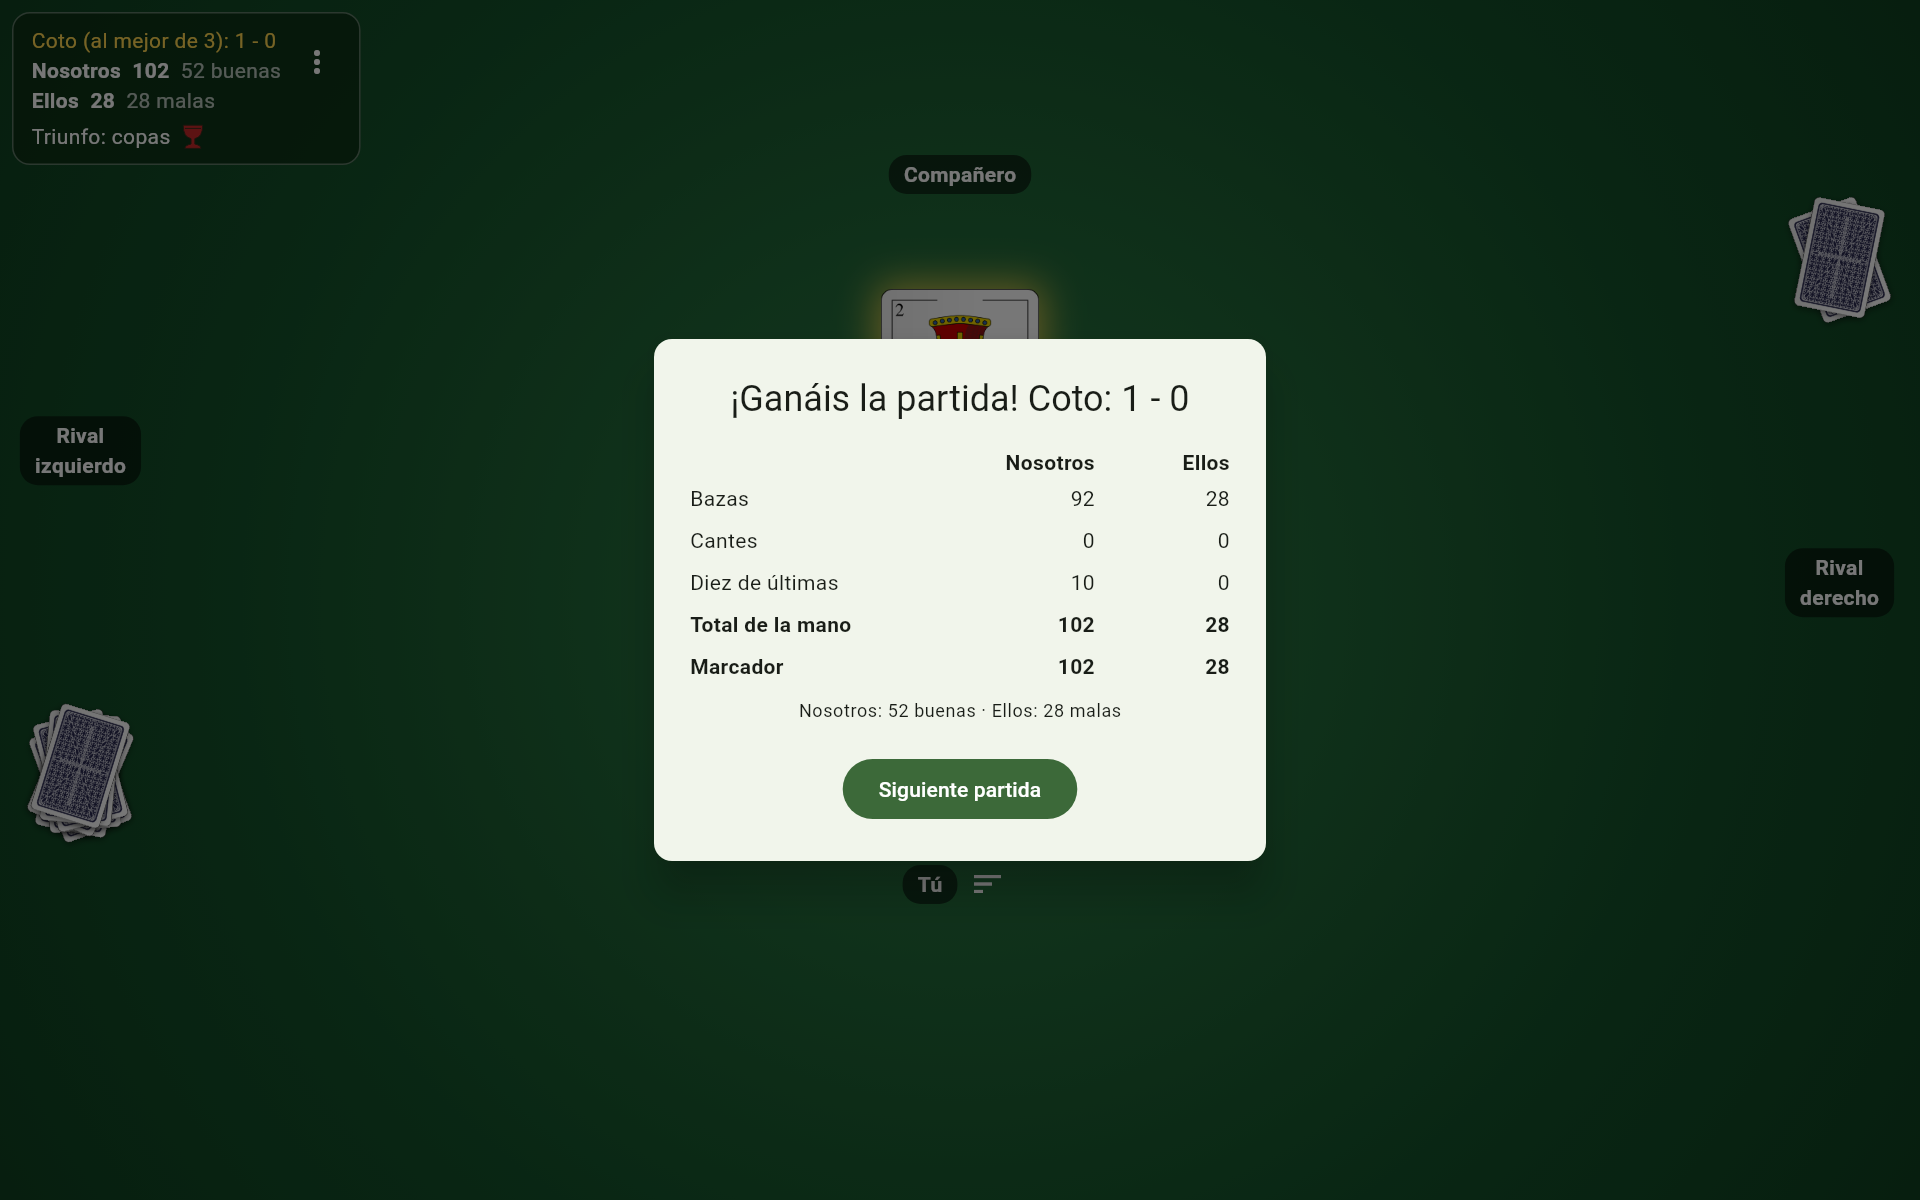
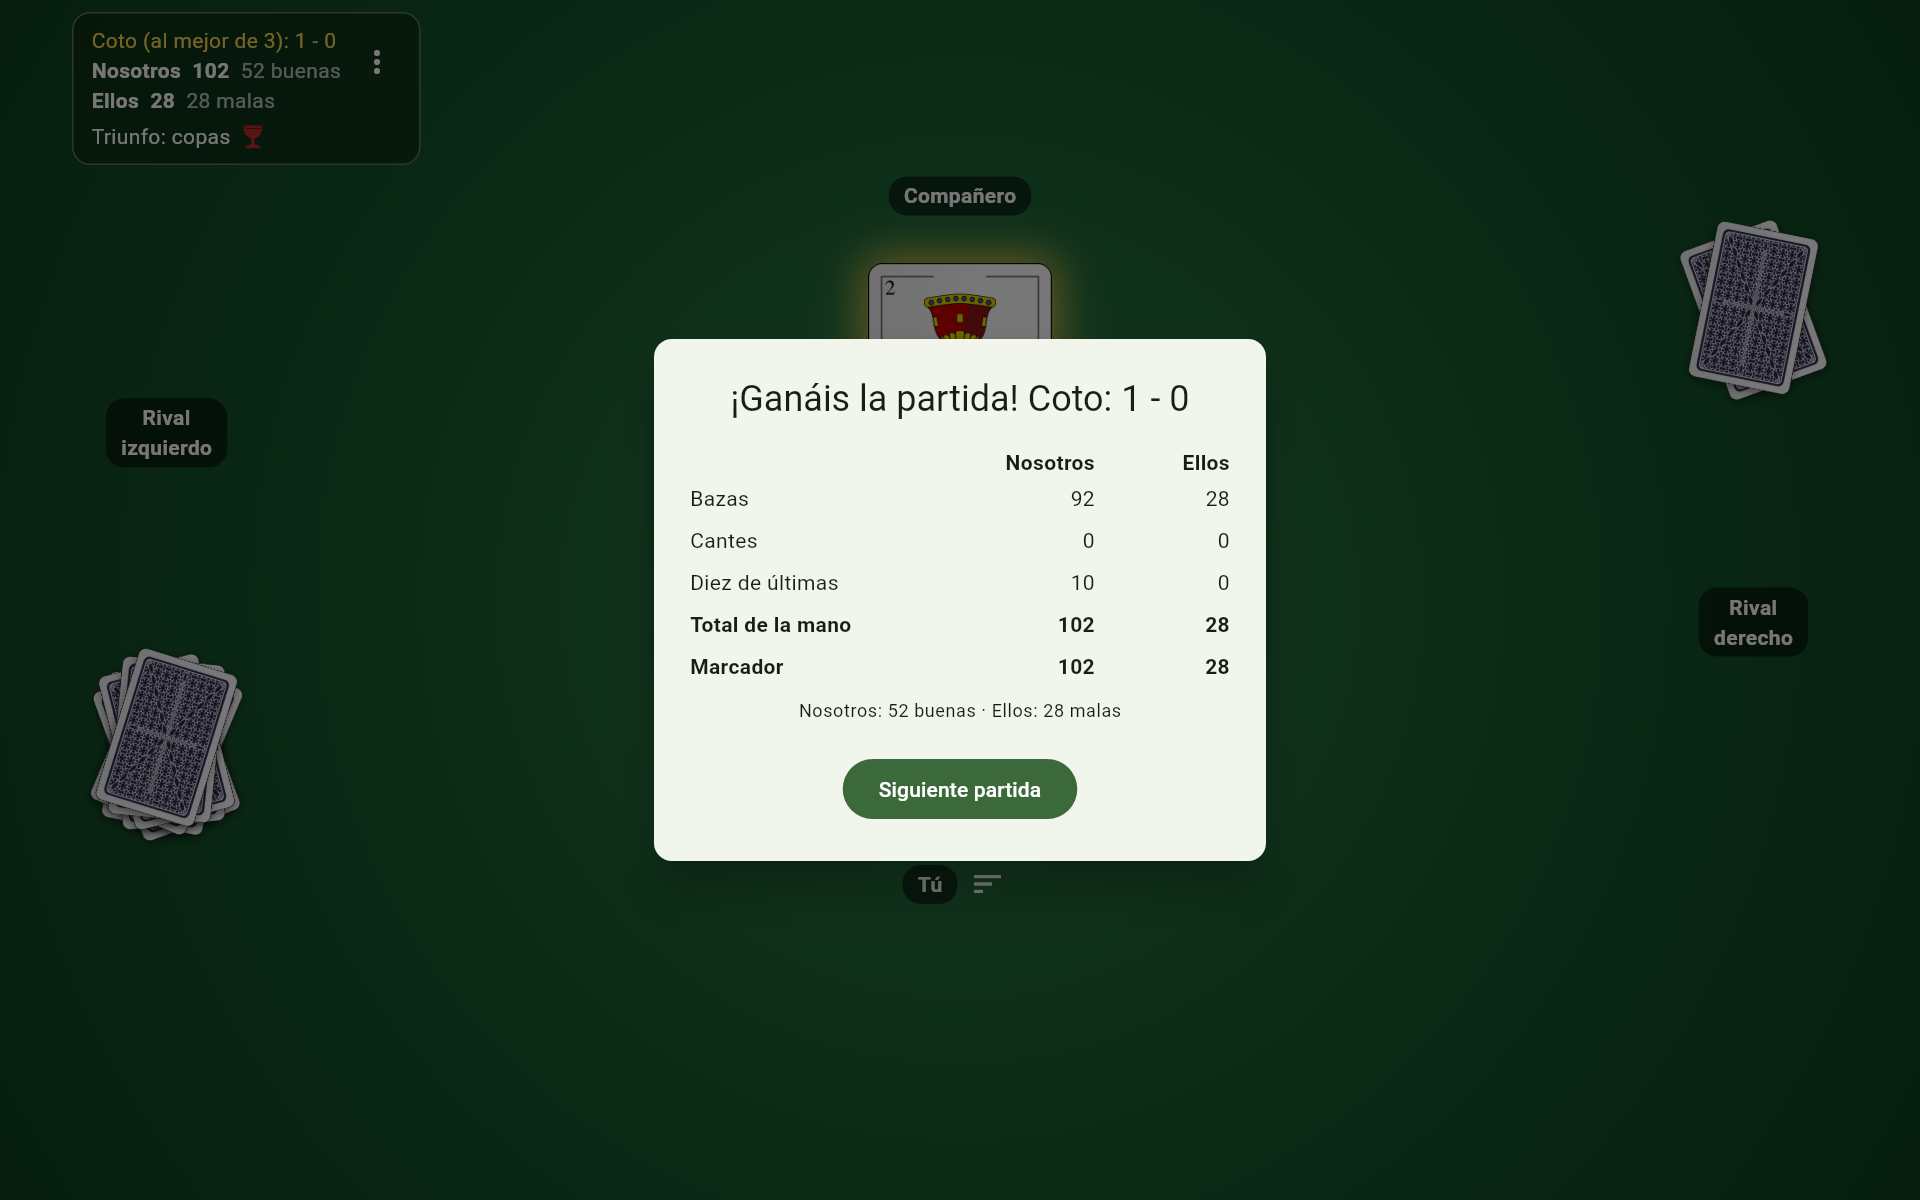
Mesa compacta en pantallas grandes y montones más visibles
- La mesa no pasa de 1,5 veces el alto de la ventana: en pantallas anchas
  queda centrada y los jugadores no se separan hacia los bordes.
- Las cartas pueden crecer más en pantallas grandes.
- Los montones usan cartas del tamaño de las manos de los rivales; la mano
  del rival encoge si no cabe junto al montón.
- Captura nueva a 1920×970.

diff --git a/app/lib/src/mesa/pantalla_mesa.dart b/app/lib/src/mesa/pantalla_mesa.dart
@@ -64,9 +64,18 @@ class _PantallaMesaState extends State<PantallaMesa> {
     );
   }
 
-  Widget _mesa(Size tamano) {
+  /// La mesa no pasa de este ancho respecto al alto: en ventanas muy anchas
+  /// los jugadores quedan agrupados alrededor del centro y sobra fondo a los
+  /// lados.
+  static const double _proporcionMaxima = 1.5;
+
+  Widget _mesa(Size ventana) {
+    final tamano = Size(
+      math.min(ventana.width, ventana.height * _proporcionMaxima),
+      ventana.height,
+    );
     final mano = _c.mano;
-    final base = (tamano.shortestSide / 7.2).clamp(40.0, 96.0);
+    final base = (tamano.shortestSide / 7.2).clamp(40.0, 120.0);
     final anchoHumano = [
       base * 1.3,
       (tamano.width - 24) / 6.4,
@@ -82,7 +91,14 @@ class _PantallaMesaState extends State<PantallaMesa> {
       activo: mano.fase == Fase.jugando && mano.turno == jugador,
     );
 
-    final anchoLateral = math.max(anchoOculta / proporcionCarta, 72.0);
+    // Los montones, con cartas del tamaño de las manos ocultas, ocupan un
+    // cuadrado en el que caben girados.
+    final ladoMonton = MontonBazas.ladoPara(anchoOculta);
+    final anchoLateral = [
+      anchoOculta / proporcionCarta,
+      72.0,
+      ladoMonton,
+    ].reduce(math.max);
 
     // Montón de bazas de una pareja; cabe girado en la columna lateral.
     Widget monton(int pareja) => MontonBazas(
@@ -90,7 +106,7 @@ class _PantallaMesaState extends State<PantallaMesa> {
       nombre: nombresParejas[pareja],
       bazas: _c.bazasEnMonton(pareja),
       marcas: _c.marcasDeVeinte(pareja),
-      ancho: anchoLateral / 1.9,
+      ancho: anchoOculta,
     );
 
     Widget rival(int jugador, {Widget? arriba, Widget? abajo}) => SizedBox(
@@ -98,18 +114,24 @@ class _PantallaMesaState extends State<PantallaMesa> {
       child: Column(
         children: [
           ?arriba,
+          // Si no cabe junto al montón, la mano del rival encoge.
           Expanded(
-            child: Column(
-              mainAxisAlignment: MainAxisAlignment.center,
-              children: [
-                etiqueta(jugador, dosLineas: true),
-                const SizedBox(height: 4),
-                ManoOculta(
-                  numero: mano.manos[jugador].length,
-                  ancho: anchoOculta,
-                  vertical: true,
+            child: Center(
+              child: FittedBox(
+                fit: BoxFit.scaleDown,
+                child: Column(
+                  mainAxisSize: MainAxisSize.min,
+                  children: [
+                    etiqueta(jugador, dosLineas: true),
+                    const SizedBox(height: 4),
+                    ManoOculta(
+                      numero: mano.manos[jugador].length,
+                      ancho: anchoOculta,
+                      vertical: true,
+                    ),
+                  ],
                 ),
-              ],
+              ),
             ),
           ),
           ?abajo,
@@ -247,7 +269,11 @@ class _PantallaMesaState extends State<PantallaMesa> {
 
     return Stack(
       children: [
-        Positioned.fill(child: mesa),
+        Positioned.fill(
+          child: Center(
+            child: SizedBox(width: tamano.width, child: mesa),
+          ),
+        ),
         if (resultado != null) ...[
           const ModalBarrier(color: Color(0x88000000), dismissible: false),
           Center(

diff --git a/app/lib/src/mesa/monton_bazas.dart b/app/lib/src/mesa/monton_bazas.dart
@@ -45,11 +45,16 @@ class MontonBazas extends StatelessWidget {
     -0.15,
   ];
 
+  /// Lado del cuadrado que ocupa un montón con cartas de [ancho]: cabe una
+  /// carta girada en cualquier ángulo.
+  static double ladoPara(double ancho) {
+    final alto = ancho / proporcionCarta;
+    return math.sqrt(ancho * ancho + alto * alto);
+  }
+
   @override
   Widget build(BuildContext context) {
-    final alto = ancho / proporcionCarta;
-    // Cuadrado: cabe la carta girada en cualquier ángulo.
-    final lado = math.sqrt(ancho * ancho + alto * alto);
+    final lado = ladoPara(ancho);
     return Semantics(
       label:
           '$nombre: $bazas ${bazas == 1 ? 'baza' : 'bazas'}'

diff --git a/app/test/capturas/capturas_test.dart b/app/test/capturas/capturas_test.dart
@@ -118,6 +118,12 @@ void main() {
       await cerrar(tester, c);
     });
 
+    testWidgets('pantalla grande', (tester) async {
+      final c = await jugarHasta(tester, const Size(1920, 970), 11, enJuego);
+      await guardar(tester, 'mesa_pantalla_grande');
+      await cerrar(tester, c);
+    });
+
     testWidgets('móvil', (tester) async {
       final c = await jugarHasta(tester, const Size(400, 860), 5, enJuego);
       await guardar(tester, 'mesa_movil');

diff --git a/CLAUDE.md b/CLAUDE.md
@@ -22,6 +22,7 @@ app/                     Flutter (web + Android). Solo interfaz y estado de pant
 
 ## Decisiones de interfaz
 - La baza completa se ve en la mesa 2 segundos y se recoge sola (el controlador llama a `recoger()`) al montón de la pareja ganadora. No hay botón de recoger.
+- La mesa no pasa de 1,5 veces el alto de la ventana: en pantallas muy anchas queda centrada, con fondo a los lados, para que los jugadores no se separen. Hay una captura a 1920×970 para comprobarlo.
 - Montones de bazas: el de nuestra pareja abajo a la izquierda y el de los rivales arriba a la derecha, boca abajo. Cada cante de 20 se marca con una carta ya jugada del montón puesta boca arriba (nunca el rey ni la sota, que siguen en juego). Las 40 no se marcan.
 - Durante esos 2 segundos ya se puede cantar y cambiar el 7. Si después de robar el humano tiene un cante o el 7 disponible, la IA espera un momento antes de salir. La IA nunca canta por el humano.
 
